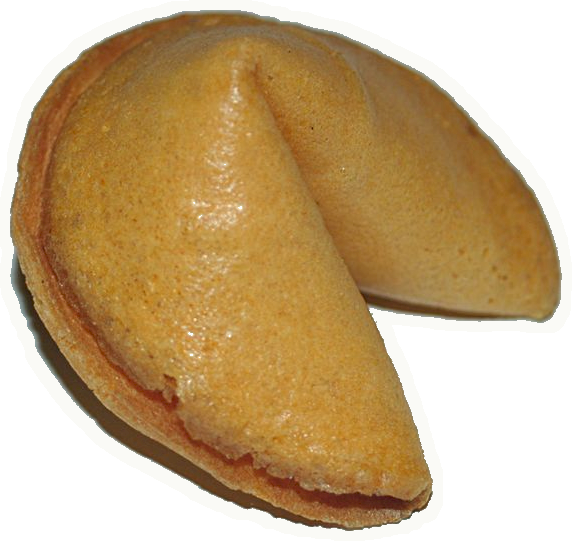
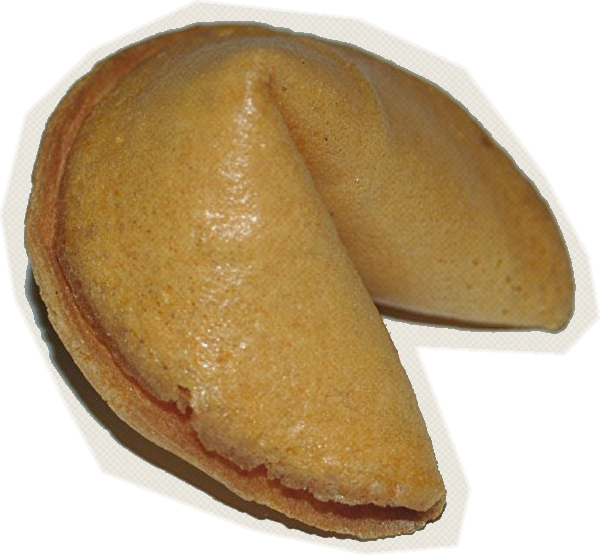
Fortune cookie Reel v7: highlighted question mark, magazine-cutout cookies
- The '?' appears white, a yellow highlighter swipes behind it (two passes, right to left), then it wobbles and turns into the cookie
- Cookies re-cut as magazine clippings (tools/magazine.py): uneven straight scissor cuts, original photo background, print texture
- Skill snapshot: magazine-cutout rule, updated hook entry in the animation bank

Claude-Session: https://claude.ai/code/session_0178qcQn9NeSq8d6jKVtL7b4

diff --git a/reels/fortune-cookie/src/FortuneReel.tsx b/reels/fortune-cookie/src/FortuneReel.tsx
@@ -83,8 +83,12 @@ const Hook: React.FC = () => {
   // question mark
   const qPop = spring({frame: f - Q_IN, fps, config: {damping: 9, stiffness: 180, mass: 0.7}});
   const think = f - Q_IN;
-  const wobble = 9 * Math.sin(think / 4.5);
-  const bob = 14 * Math.sin(think / 6);
+  // it appears, gets highlighted, and only then starts to wobble as if thinking
+  const hl1 = prog(f, Q_IN + 8, Q_IN + 15);
+  const hl2 = prog(f, Q_IN + 15, Q_IN + 22);
+  const live = prog(f, Q_IN + 22, Q_IN + 28);
+  const wobble = 9 * Math.sin(think / 4.5) * live;
+  const bob = 14 * Math.sin(think / 6) * live;
   const squash = interpolate(f, [48, 54, 57], [0, 1, 0], clamp); // anticipation
   const spin = interpolate(f, [56, COOKIE_IN], [0, 1], {...clamp, easing: Easing.in(Easing.cubic)});
   const qScale = qPop * (1 - 0.75 * spin);
@@ -103,18 +107,44 @@ const Hook: React.FC = () => {
             position: 'absolute',
             left: cx,
             top: cy + bob * (1 - spin),
-            transform: `translate(-50%, -50%) rotate(${qRot}deg) scale(${qScale * (1 + 0.18 * squash)}, ${qScale * (1 - 0.22 * squash)})`,
-            fontFamily: FONT,
-            fontWeight: 700,
-            fontSize: 760,
-            lineHeight: 1,
-            color: '#F2C230',
-            WebkitTextStroke: "22px #1E1D1A",
-            paintOrder: 'stroke fill',
-            textShadow: '0 18px 24px rgba(0,0,0,0.45)',
+            width: 0,
+            height: 0,
+            transform: `rotate(${qRot}deg) scale(${qScale * (1 + 0.18 * squash)}, ${qScale * (1 - 0.22 * squash)})`,
           }}
         >
-          ?
+          {/* yellow highlighter, two passes drawn right to left behind the "?" */}
+          <svg width={700} height={760} style={{position: 'absolute', left: -350, top: -380, overflow: 'visible', opacity: 1 - spin}}>
+            {[
+              {d: 'M 535 290 C 440 280, 320 300, 175 286', p: hl1},
+              {d: 'M 528 470 C 420 482, 300 462, 168 478', p: hl2},
+            ].map((h, k) => (
+              <path key={k} d={h.d} stroke="#FDF551" strokeWidth={215} strokeLinecap="butt" strokeOpacity={0.88} fill="none" pathLength={1} strokeDasharray="1 1" strokeDashoffset={1 - h.p} style={{filter: 'url(#rough)'}} />
+            ))}
+            <defs>
+              <filter id="rough" filterUnits="userSpaceOnUse" x={-100} y={-100} width={900} height={960}>
+                <feTurbulence type="fractalNoise" baseFrequency="0.035" numOctaves={2} seed={4} />
+                <feDisplacementMap in="SourceGraphic" scale={26} />
+              </filter>
+            </defs>
+          </svg>
+          <div
+            style={{
+              position: 'absolute',
+              left: 0,
+              top: 0,
+              transform: 'translate(-50%, -50%)',
+              fontFamily: FONT,
+              fontWeight: 700,
+              fontSize: 760,
+              lineHeight: 1,
+              color: '#FFFFFF',
+              WebkitTextStroke: '22px #1E1D1A',
+              paintOrder: 'stroke fill',
+              textShadow: '0 18px 24px rgba(0,0,0,0.45)',
+            }}
+          >
+            ?
+          </div>
         </div>
       )}
       {burst >= 0 && burst < 1 &&
@@ -583,6 +613,7 @@ const EndCard: React.FC = () => {
 // Sound design (VOX rules: sparse, J-cut 2 frames early, max two soft whooshes)
 const SFX: {at: number; src: string; v: number}[] = [
   {at: Q_IN - 2, src: 'sfx/soft_thump_reveal_03.wav', v: 0.22}, // the question mark pops up
+  {at: Q_IN + 7, src: 'sfx/marker_stroke_02.wav', v: 0.16}, // highlighter on the ?
   {at: COOKIE_IN - 6, src: 'sfx/sparkle_soft_02.wav', v: 0.2}, // the ? spins into the cookie
   {at: COOKIE_IN - 1, src: 'sfx/soft_thump_reveal_01.wav', v: 0.3}, // the cookie lands
   {at: 94 + D, src: 'sfx/paper_movement_01.wav', v: 0.2},

diff --git a/reels/fortune-cookie/tools/magazine.py b/reels/fortune-cookie/tools/magazine.py
@@ -1,0 +1,85 @@
+"""Magazine-cutout versions of the cookie images: straight, uneven scissor cuts that keep a
+little of the original photo's background, a thin paper edge and a faint print texture,
+instead of an even white sticker border. Run from the reel folder after prep.py:
+    python3 tools/magazine.py [sources]
+Writes public/img/broken.png, half_left.png, half_right.png, cookie.png."""
+import sys
+import numpy as np
+import cv2
+from PIL import Image
+
+RAW = sys.argv[1] if len(sys.argv) > 1 else 'sources'
+OUT = 'public/img'
+PAPER = np.array([240, 236, 226], np.float32)
+
+
+def scissor_mask(alpha, rng, margin=(10, 34), eps=14):
+    """Polygon of straight cuts around the subject, at an uneven distance from it."""
+    m = (alpha > 40).astype(np.uint8)
+    m = cv2.morphologyEx(m, cv2.MORPH_CLOSE, np.ones((15, 15), np.uint8))
+    k = int(np.mean(margin))
+    grown = cv2.dilate(m, cv2.getStructuringElement(cv2.MORPH_ELLIPSE, (2 * k + 1, 2 * k + 1)))
+    cnts, _ = cv2.findContours(grown, cv2.RETR_EXTERNAL, cv2.CHAIN_APPROX_NONE)
+    out = np.zeros_like(m)
+    for c in cnts:
+        if cv2.contourArea(c) < 2000:
+            continue
+        poly = cv2.approxPolyDP(c, eps, True).reshape(-1, 2).astype(np.float32)
+        ctr = poly.mean(0)
+        # push each corner in or out a little so the margin is uneven, like a hand cut
+        d = poly - ctr
+        n = d / (np.linalg.norm(d, axis=1, keepdims=True) + 1e-6)
+        poly = poly + n * rng.uniform(margin[0] - k, margin[1] - k, (len(poly), 1))
+        cv2.fillPoly(out, [poly.round().astype(np.int32)], 1)
+    return np.maximum(out, m)  # never cut into the subject
+
+
+def magazine(rgb, alpha, seed, has_bg=True):
+    rng = np.random.default_rng(seed)
+    H, W = alpha.shape
+    pad = 50
+    rgb = cv2.copyMakeBorder(rgb, pad, pad, pad, pad, cv2.BORDER_REPLICATE).astype(np.float32)
+    alpha = cv2.copyMakeBorder(alpha, pad, pad, pad, pad, cv2.BORDER_CONSTANT, value=0)
+    cut = scissor_mask(alpha, rng)
+    a = (alpha > 40)[..., None]
+    if has_bg:
+        img = rgb  # the original photo background shows inside the cut, like a real clipping
+    else:
+        img = np.where(a, rgb, PAPER + rng.normal(0, 3, rgb.shape))
+    # print texture: slight desaturation + a fine dot screen
+    grey = img.mean(2, keepdims=True)
+    img = img * 0.9 + grey * 0.1
+    yy, xx = np.mgrid[0:img.shape[0], 0:img.shape[1]]
+    dots = (np.sin(xx * 0.9) * np.sin(yy * 0.9) + 1) / 2
+    img = img * (1 - 0.05 * dots[..., None])
+    # thin, slightly lighter paper edge where the scissors went through
+    edge = cut - cv2.erode(cut, np.ones((5, 5), np.uint8))
+    img = np.where(edge[..., None] > 0, img * 0.55 + 255 * 0.45, img)
+    A = (cv2.GaussianBlur(cut.astype(np.float32), (3, 3), 0) * 255)
+    rgba = np.dstack([np.clip(img, 0, 255), A]).astype(np.uint8)
+    ys, xs = np.where(cut > 0)
+    return Image.fromarray(rgba[ys.min():ys.max() + 1, xs.min():xs.max() + 1])
+
+
+def main():
+    from rembg import new_session, remove
+    s = new_session('isnet-general-use')
+    im = Image.open(f'{RAW}/broken.jpg').convert('RGB')
+    im.thumbnail((1400, 1400))
+    alpha = np.asarray(remove(im, session=s).split()[3])
+    rgb = np.asarray(im)
+    magazine(rgb, alpha, 3).save(f'{OUT}/broken.png')
+    # the two halves (the slip belongs to the right half)
+    m = cv2.morphologyEx((alpha > 40).astype(np.uint8), cv2.MORPH_CLOSE, np.ones((5, 5), np.uint8))
+    n, lab, stats, cent = cv2.connectedComponentsWithStats(m)
+    big = sorted(range(1, n), key=lambda i: -stats[i, cv2.CC_STAT_AREA])[:2]
+    big.sort(key=lambda i: cent[i][0])
+    for name, k, seed in zip(['half_left', 'half_right'], big, [5, 7]):
+        magazine(rgb, np.where(lab == k, alpha, 0).astype(np.uint8), seed).save(f'{OUT}/{name}.png')
+    w = Image.open(f'{RAW}/cookie_png.png').convert('RGBA')
+    magazine(np.asarray(w.convert('RGB')), np.asarray(w.split()[3]), 11, has_bg=False).save(f'{OUT}/cookie.png')
+    print('magazine cutouts ok')
+
+
+if __name__ == '__main__':
+    main()

diff --git a/claude/skills/englishu-reel/SKILL.md b/claude/skills/englishu-reel/SKILL.md
@@ -56,8 +56,9 @@ After every round of Sharon's notes, and again when a Reel is finished, list eve
 - **Every word on screen must connect directly to the narration, from the viewer's point of view.** A label is allowed only if the viewer, hearing that line for the first time, immediately sees why it is there: it names something the narration just said or the image clearly shows. A name or place the narration never mentions (she did not know who "מקוטו הגיווארה" was, and "צ'יינה טאון" did not tie to the line) confuses instead of helping; drop it.
 - **Place and date callouts use the Vox banner.** A solid yellow bar with the place/date in bold condensed capitals (Oswald 700, dark text) and a small pointer underneath, like Vox's "TAHRIR SQUARE": centred horizontally in the frame, pointing at the place, with no outline box around the target (Sharon removed the box). It is the one allowed second typeface. Not a torn paper label.
 - **A guiding aesthetic, not a template.** Every Reel shares the look (Vox paper world, palette, typeface, sound rules) but not the same moves. Pick the hook reveal, the word animations and the callback fresh for each topic from the bank below (or invent one), and never repeat the previous Reel's signature move in the same slot. Sharon noticed the zoom-into-a-yellow-ring opening recurring in most Reels and asked for it to stop being the default.
-- **Animation bank (choose, don't repeat).** Hook reveals: scene-setting full-frame photo, pause, then the subject pops in; a big yellow "?" over the scene that wobbles as if thinking, squashes, spins and turns into the subject with a small sparkle burst (fortune cookie); real footage that freezes on the detail; a torn-paper reveal; zoom + glow ring (rarely). Word animations: a manila shipping tag with a red eyelet that rides a dashed path and is clipped onto the photo it labels, hanging on a red string (the dashed path disappears once it is clipped on) (ATTRIBUTE); a wrong label peeling off and falling (MISCONCEPTION); letters riding a signal (CONVEY); code tiles decoding (DECIPHER); pieces drifting apart or linking (DRIFT, BOND); a red stamp. Transitions and accents: hard cut to a full-frame photo, Vox yellow place banner (centred, pointer, no box), map route with a yellow arrow, timeline from the right, crack/split, crumbs or scatter. Add each new device to this list when she approves it.
+- **Animation bank (choose, don't repeat).** Hook reveals: scene-setting full-frame photo, pause, then the subject pops in; a big white "?" appears over the scene, a yellow highlighter swipes behind it (right to left), then it wobbles as if thinking, squashes, spins and turns into the subject with a small sparkle burst (fortune cookie); real footage that freezes on the detail; a torn-paper reveal; zoom + glow ring (rarely). Word animations: a manila shipping tag with a red eyelet that rides a dashed path and is clipped onto the photo it labels, hanging on a red string (the dashed path disappears once it is clipped on) (ATTRIBUTE); a wrong label peeling off and falling (MISCONCEPTION); letters riding a signal (CONVEY); code tiles decoding (DECIPHER); pieces drifting apart or linking (DRIFT, BOND); a red stamp. Transitions and accents: hard cut to a full-frame photo, Vox yellow place banner (centred, pointer, no box), map route with a yellow arrow, timeline from the right, crack/split, crumbs or scatter. Add each new device to this list when she approves it.
 - **Maps in the Vox Atlas style.** Full-frame map, not a shape on a paper plate: light blue-grey sea, flat pale land with thin white borders, the countries that matter in solid colours (red, slate blue) with a soft shadow, bold outlined place names (one or two words, centred inside the country; English names such as CHINA when she asks), and thick yellow curved arrows with arrowheads that draw on. Natural Earth via `world-atlas` + `d3-geo`.
+- **Cutouts look like magazine clippings, not stickers.** Straight, uneven scissor cuts at a varying distance from the subject, keeping a little of the original photo's background, with a thin paper edge and a faint print texture; never a consistent white outline (Sharon's note on the fortune cookie). `tools/magazine.py` in the fortune cookie project does this.
 - **Balance real images and animation.** Alternate full-frame real photos or footage with animated cutout graphics; aim for roughly a third to a half of the beats on real full-frame images. A Reel built only of stickers on paper plates feels like a template, one built only of photos feels like a slideshow. Full-frame photos and footage (and only those) take the slow ~6 percent zoom.
 - **Give the hook question room.** Open on a real scene-setting image (the place the question is about), hold it alone for about 2 s so the narrator can ask and the viewer can think, and only then bring in the subject (fortune cookie Reel: a restaurant first, then the cookie). If her supplied photo is small, upscale it with an AI upscaler (4xNomosWebPhoto ONNX from Hugging Face works locally) rather than stretching it.
 - **Show the whole current script in the chat reply every time it changes** (numbered, with the changed lines named after it), and also save it to the project as a new version. She asked for "the updated script here" when she got only notes and a file.

diff --git a/reels/fortune-cookie/README.md b/reels/fortune-cookie/README.md
@@ -11,5 +11,5 @@ node tools/stills.mjs out/stills 70 250 520            # quick stills (half size
 
 - `src/FortuneReel.tsx`: `SCENES` (beat timings from the mock-up), `LINES` (recording script = subtitles), `SFX` (sound cues), one component per beat, end card.
 - `src/kit.tsx`: Vox palette, plates, grain, sticker, torn label, subtitle, key word, arcs. `src/maps.tsx`: China and Pacific maps (Natural Earth).
-- `tools/plates.py`: the light/dark paper plates. `tools/prep.py`: cutouts (rembg), torn clippings, 9:16 tea-garden clip, sound trims. Source downloads live in `sources/` (git-ignored; list in CREDITS.md).
+- `tools/plates.py`: the light/dark paper plates. `tools/magazine.py`: magazine-cutout cookies (run after prep). `tools/prep.py`: cutouts (rembg), torn clippings, 9:16 tea-garden clip, sound trims. Source downloads live in `sources/` (git-ignored; list in CREDITS.md).
 - Voiceover: not recorded yet. Put Sharon's take in `public/vo.wav`, render with `--props='{"voiceover":"vo.wav"}'`, then retime `SCENES`, `LINES` and `SFX` to it.
